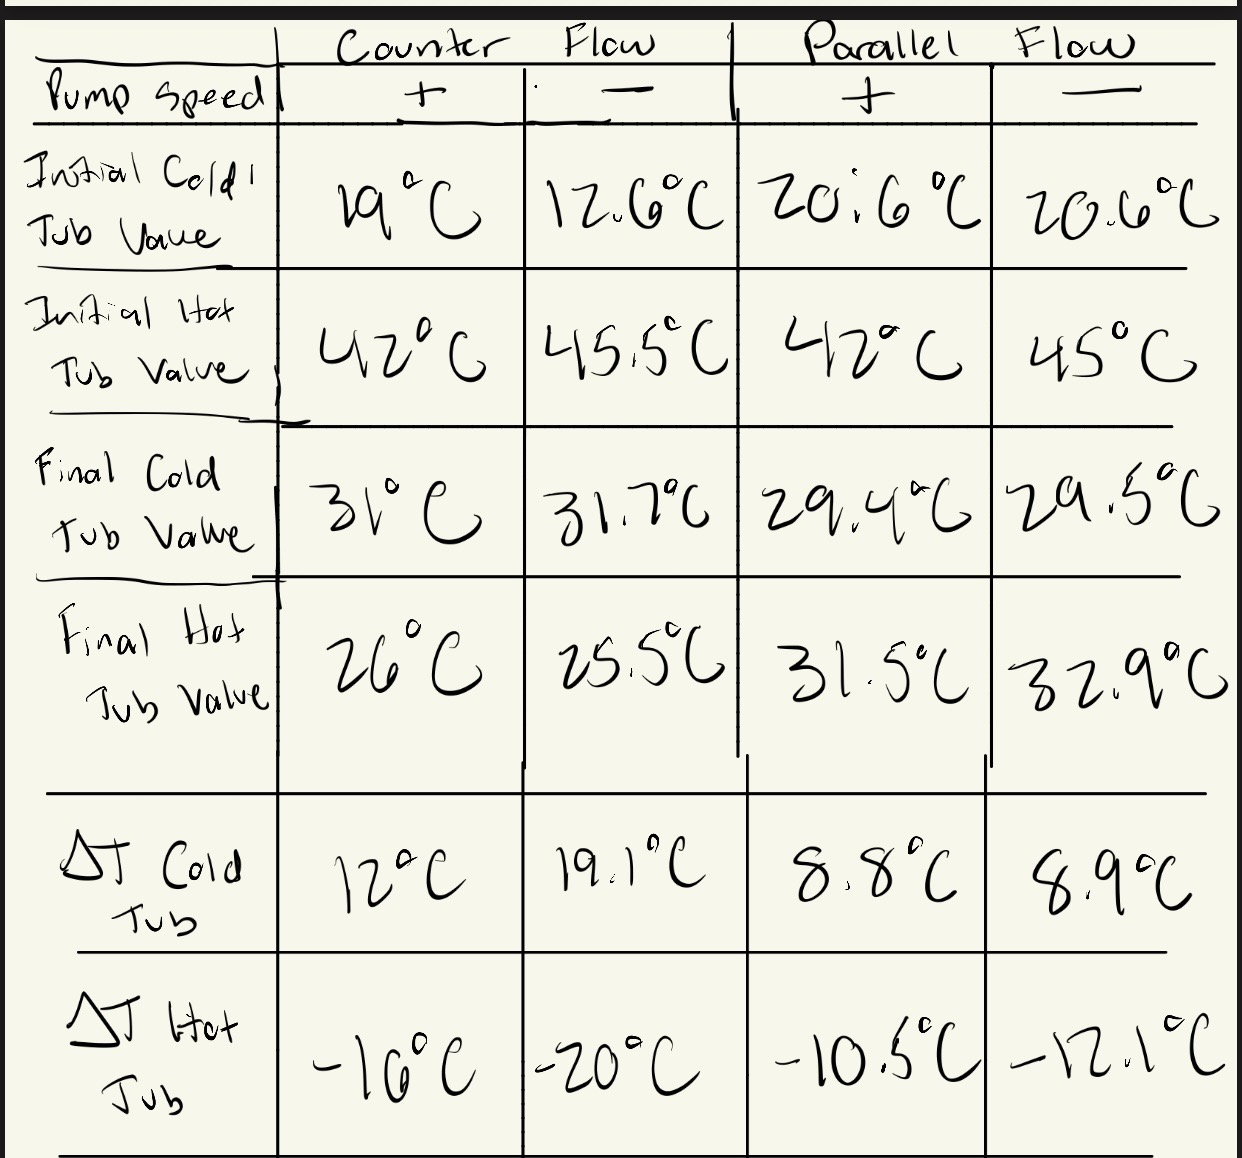
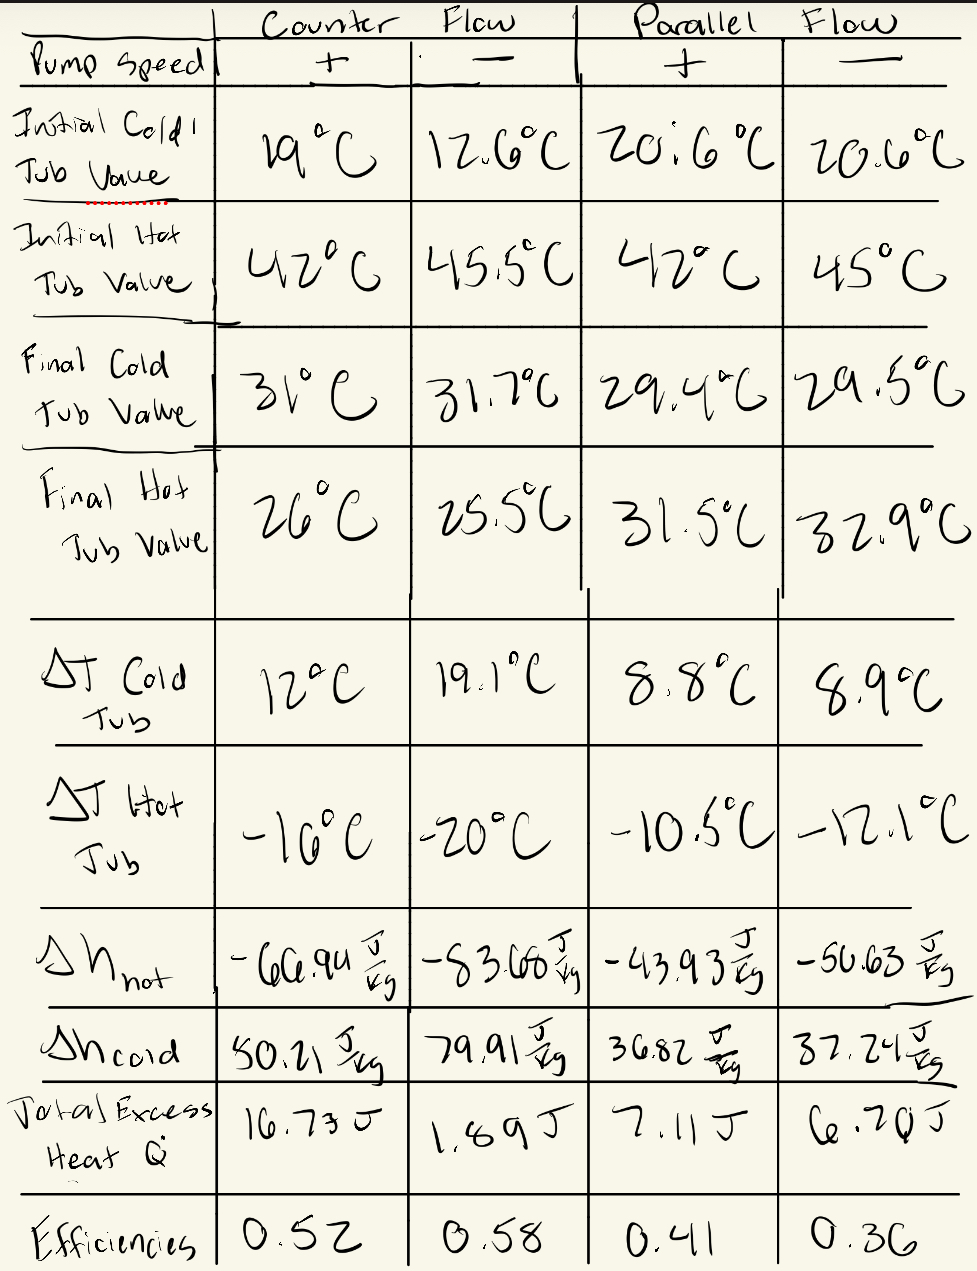
Thermo changes

Changed region(s): [[0.0, 0.0, 1.0, 1.0]]

diff --git a/_projects/2022-trig-analysis.md b/_projects/2022-trig-analysis.md
@@ -5,26 +5,39 @@ description: Class project with Schematics
 technologies: [GoodNotes, GoogleDrawings]
 image: /assets/images/overall-heat-exahnger.jpeg
 ---
+---Heat Exchanger Lab Overview---
+My thermodyanmics class setup a lab where we could examine how the initial temperatures of a hot bath and cold bath of water would change after running through a heat exchanger -- a device that takes in two liquids seperated by a solid barrier and exchanges the heat between the two either with parallel flow or counter flow. To best show this device, my group tested putting the liquids flowing through the heat exchanger in parallel (and + / - pump speed) along with in counter-flow (and + / - pump speed) in order to come to a conclusion of which is more efficient (including pump speed). To best represent this, the diagram below shows a schematic of the heat exchanger with its control volume boundary around the heat exchanger. To be in parallel flow, either the liquid flows from 1 -> 2 and the other flows from 3 -> 4 or vise versa. For counter-flow, either the liquid flows from 1 -> 2 and the other flows from 4 -> 3 or the liquid flows from 2 -> 1 while the other flows from 3 -> 4. (The first picture shows parallel flow and the second shows counterflow).
 
-My thermodyanmics class setup a lab where we could how the initial temperatures of a hot bath and cold bath of water would change after running through a heat exchnager (the heat exchanger takes in two liquids and exchanges the heat between the two with a solid barrier between the two). To best show this result, my group tested putting the liquids flowing through the heat exchanger in parallel (and + / - pump speed) along with in counter-flow (and + / - pump speed). To best represent this, the diagram below shows a schematic of the heat exchanger with its control volume boundary around the heat exhcanher. To be in parallel flow, either the liquid flows from 1 -> 2 and the other flows from 3 -> 4 or vise versa. For counter-flow, either the liquid flows from 1 -> 2 and the other flows from 4 -> 3 or the liquid flows from 2 -> 1 while the other flows from 3 -> 4. (The first picture shows parallel flow and the second shows counterflow)
+![Photo of diagram]({{ "/assets/images/Heat Exchanger Drawing.jpg" | relative_url }})
 
-![Photo of diagram]({{ "/assets/images/Heat Exchanger Drawing.jpg" | relative_url }}){: .inline-image-l}
+<div class="image-row">
+  ![Parallel flow]({{ "/assets/images/parallel-flow.jpeg" | relative_url }})
+  ![Counter flow]({{ "/assets/images/counter-flow.jpeg" | relative_url }})
+</div>
 
-![Photo of parallel flow]({{ "/assets/images/parallel-flow.jpeg" | relative_url }}){: .inline-image-l}
-
-![Photo of diagram]({{ "/assets/images/counter-flow.jpeg" | relative_url }}){: .inline-image-l}
-
+---Data---
 Assuming this is an ideal heat exchanger, it does no work (as the pumps inside of the hot and cold water baths are the ones doing the work). This means the heat is exchanged between the hot and cold inside of the heat exchanger by taking heat from the hot flow and into the cold flow. Here is the equation I used to find change in enthalpy and any excess heat that was probably taken up by material of the heat exchanger itself as there was a temperature change of the outsides of the heat exhchanger.
 
-![Photo of control volume explanation]({{ "/assets/images/CV-explanation.jpg" | relative_url }}){: .inline-image-l}
+![Photo of control volume explanation]({{ "/assets/images/CV-explanation.jpeg" | relative_url }})
 
-![Photo of data]({{ "/assets/images/Heat-exchanger-data.jpeg" | relative_url }}){: .inline-image-l}
+![Photo of data]({{ "/assets/images/Heat-exchanger-data.jpeg" | relative_url }})
 
-Seen from those pictures, due to the Qnet not equaling 0, this heat exchanger is not perfect; however that is expected. Although it is not a lot of energy, there is still some net positive enegry that was absorbed by the heat exchanger.
+---Analysis---
 
-When comparing the most ideal situations, if the change in temeprature of the water was to be the same, then no energy was absorbed by the heat exchanger thus making it the "best." As seen from the data above, the closest to the magnitudes of the tmeperatures being the same was counterflow with negative pump speed while the farthest away was counterflow with positive pump speed. Theoertically, this makes sense since with a lower pump speed, the heat transfer can act more quasistaclly than if it was faster (it can't go to equilibirum every second before pumping more water through the heat exchanger). 
+Due to the Qnet not equaling 0, this heat exchanger is not perfect; however that is expected. Although it is not a lot of energy (although it could be more or less for each because I used made up mass flow rates for + / - flow), there is still some net positive enegry that was absorbed by the heat exchanger. This means that the device itself is not fully adiabatic. This can also be seen through data as the border temperature of the heat exchanger on both the cold flow side and the hot flow side increased before and after pumping the water.
 
-To make this better and closer to ideal results, first I would do many more tests to figure gain a higher understanding of what this het exhanger's results tend to. Also, I would use a pump that pumps water more slowly to act more quasistacally (as stated above). I would also make sure the hot bath and cold bath are higher and lower temperatrures, respectively, since this will lead to a better understanding of how the heat from one bath goes through the control volume (heat exchanger) and out into the empty bath.
+When comparing the most ideal situations however, if the change in temperature of the water was to be the same, then no energy was absorbed by the border of the heat exchanger and eventually leaving the device to outside the system thus making it the "best" (yet would still generate entropy - nonreversible - as there is heat exchange over a finite change in temperature). As seen from the data above, the closest points where the magnitudes of the cold and hot temperature changes being the same was counterflow with negative pump speed while the farthest away was counterflow with positive pump speed. Theoertically, this makes sense since with a lower pump speed, the heat transfer can act more quasi-statically than if it was faster (a slower pump allows the water to reach closer to equilibrium every second before pumping more water through the heat exchanger). 
 
-In every instance, the change of temperature of the hot flow was greater in magntiude than that of the cold flow.
-In both parallel pump speeds, the hot flow final tmeperature was  hotter than that of the cold flow; however, in both counterflow instances, the cold flow final temperature was greater than that of the hotter flow.
+Comparing efficiencies shows which type of flow leads to a more ideal situation where the change in temeperature of a bath is equal to the temperature difference between the hot bath and cold bath. Using the values above, the efficiencies (shown in the data table), show how counterflow is 30–60% more effective than parallel flow. Also looking at the data, only counterflow allows the cold outlet temperature to exceed the hot outlet temperature.
+
+This makes physichal sense because parallel flow suffers from rapid temperature equalization near the inlet, limiting heat transfer. In other words, the total amount of heat that can be transferred is constrained because the driving force for heat transfer, the temperature difference, drops quickly in the beginning leading to the fluids being "unable" to exchange as much heat over the length of the heat exchanger. This leads to the smaller efficincies when compared to counterflow where their lies large temperature differences between both ends of the heat exchanger allowing for a larger average magnitude of heat to transfer between the solid border inner-walls.
+
+---Conclusion---
+Although a true heat exchanger efficiency cannot be calculated without mass flow rates, a relative effectiveness comparison was performed using inlet and outlet temperatures of hot and cold baths of water. Counterflow operation exhibited significantly higher effectiveness than parallel flow, with the highest effectiveness occurring at lower pump speeds due to increased time for quasi-static heat exchange.
+
+---Sources of Error---
+To make this better and closer to ideal results, first I would do many more tests to gain a higher understanding of what this heat exhanger's results tend to. Also, I would use a pump that pumps water more slowly to act more quasi-statically (as stated above). I would also make sure the hot bath and cold bath are at higher and lower temperatrures, respectively, since this will lead to a better understanding of how the heat from one bath goes through the control volume heat exchanger and out into the empty bath.
+
+Steady state was assumed but this could not be entirely true. To optimize steady state, the kinks out of the tube so that the water flow could flow smoothly and at the speed of the aquatic pump. However, since one pump was used inside the hot bath and another in the cold bath, the rates at which the water flowed through the heat exchanger could be slightly different. This would mean that m_in does not equal m_out and therefore, not exactly steady-state.
+
+By using some sort of insulated container to place the heat exchanger inside, a greater interpretaion on the idealized, adiabatic heat exchanger could be examined as Qnet would be lower due to the smaller decrease of heat escape from the control system and therefore a larger temperature change between the two baths (less heat goes out of the heat exchanger and is instead exchnaged between the hot and cold water).
